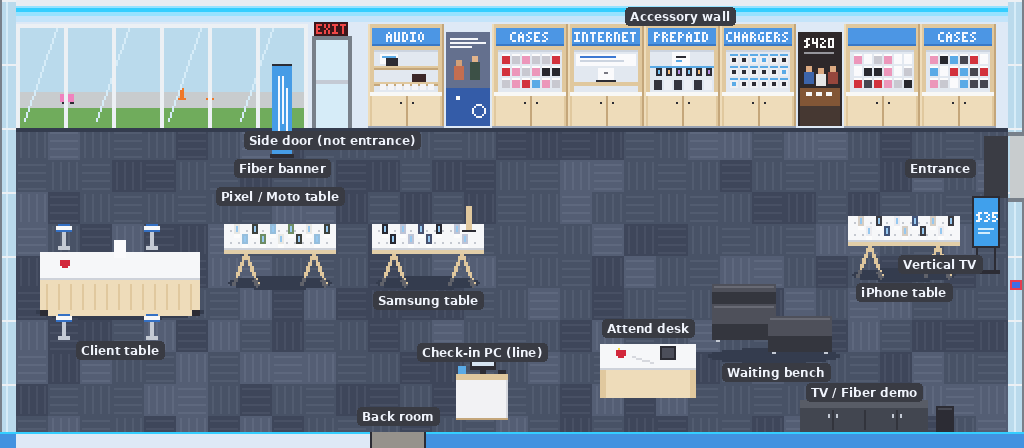
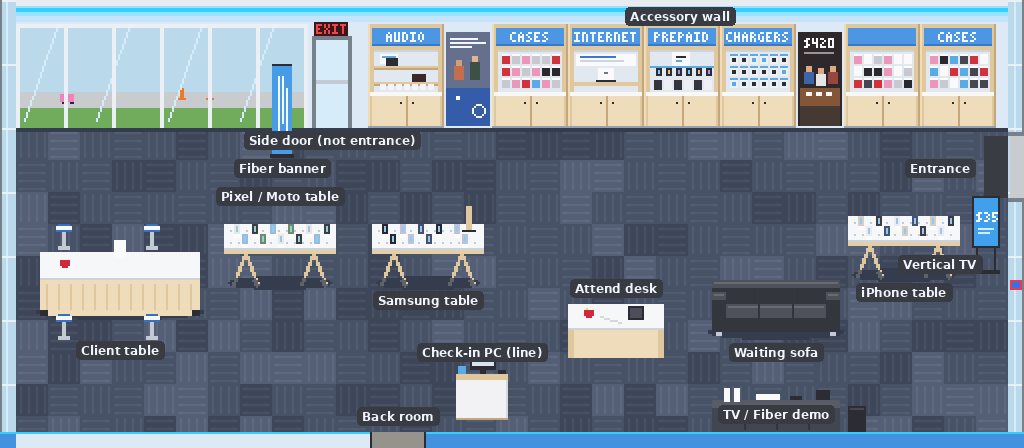
Store map: sofa, desk and TV demo placement
- The waiting area is a sofa, not ottomans: backrest drawn behind
  sitters, arms and cushions in front
- Attend desk moved up and left, closer to the check-in PC
- TV/Fiber demo credenza moved directly in front of the sofa

Claude-Session: https://claude.ai/code/session_015m4UU8edyU5WYJrZWLfwpV

Changed region(s): [[0.5312, 0.625, 0.9375, 0.9688]]

diff --git a/art/store_map/make_map.py b/art/store_map/make_map.py
@@ -41,7 +41,7 @@ CARPET, CARPET_LT, CARPET_DK = (72, 82, 102), (84, 94, 116), (62, 70, 90)
 FLOOR_SHADOW = (52, 60, 78)
 WHITE_TOP, TABLE_EDGE, PLY, HOLE = (246, 247, 249), (206, 210, 218), (226, 206, 168), (196, 200, 208)
 DARK, DARK_TIP = (44, 44, 52), (96, 98, 106)
-BENCH_TOP, BENCH, BENCH_HI = (78, 80, 90), (52, 54, 62), (104, 106, 116)
+SOFA_TOP, SOFA, SOFA_HI = (78, 80, 90), (52, 54, 62), (104, 106, 116)
 CRED_TOP, CRED, CRED_DK = (88, 92, 102), (66, 70, 80), (50, 52, 60)
 BLUE_WALL, HALL = (66, 146, 224), (150, 146, 140)
 STOOL_BLUE, CHROME = (52, 112, 196), (196, 202, 212)
@@ -331,20 +331,29 @@ def attend_desk(d, x, y):
     d.line([(x + 16, y + 6), (x + 26, y + 9)], fill=(214, 216, 222))  # charging cable
 
 
-def bench_back(d, x, y):
-    R(d, x, y - 10, 32, 4, BENCH_TOP)
-    R(d, x, y - 6, 32, 6, BENCH)
-    R(d, x + 1, y - 9, 30, 1, BENCH_HI)
+def sofa_back(d, x, y):
+    """Backrest, drawn before anyone sitting so they sit in front of it."""
+    R(d, x, y - 12, 64, 4, SOFA_TOP)
+    R(d, x + 1, y - 11, 62, 1, SOFA_HI)
+    R(d, x, y - 8, 64, 9, SOFA)
+    for sx in (21, 42):
+        R(d, x + sx, y - 8, 1, 9, CRED_DK)
 
 
-def bench(d, x, y):
-    floor_shadow(d, x - 2, y + 22, 66, 8)
-    for bx, by in ((x, y), (x + 28, y + 6)):
-        R(d, bx, by, 32, 10, BENCH_TOP)
-        R(d, bx + 1, by + 1, 30, 1, BENCH_HI)
-        R(d, bx, by + 10, 32, 8, BENCH)
-        R(d, bx + 2, by + 18, 2, 1, CHROME)
-        R(d, bx + 28, by + 18, 2, 1, CHROME)
+def sofa(d, x, y):
+    """Arms and seat cushions, drawn in front of anyone sitting."""
+    floor_shadow(d, x - 2, y + 10, 68, 8)
+    for ax in (x, x + 57):
+        R(d, ax, y - 6, 7, 4, SOFA_TOP)
+        R(d, ax + 1, y - 5, 5, 1, SOFA_HI)
+        R(d, ax, y - 2, 7, 16, SOFA)
+    R(d, x + 7, y, 50, 7, SOFA_TOP)
+    R(d, x + 8, y + 1, 48, 1, SOFA_HI)
+    for sx in (23, 40):
+        R(d, x + sx, y, 1, 7, CRED_DK)
+    R(d, x + 7, y + 7, 50, 7, SOFA)
+    for lx in (x + 2, x + 59):
+        R(d, lx, y + 14, 3, 2, CHROME)
 
 
 def credenza(d, x, y):
@@ -608,10 +617,10 @@ def furniture():
         (143, lambda d: demo_table(d, 186, 112, SAMSUNGS, sign=True)),
         (77, lambda d: fiber_banner(d, 136, 32)),
         (209, lambda d: pc_podium(d, 228, 187)),
-        (199, lambda d: attend_desk(d, 300, 172)),
-        (151, lambda d: bench_back(d, 356, 152)),
-        (174, lambda d: bench(d, 356, 152)),
-        (215, lambda d: credenza(d, 400, 200)),
+        (178, lambda d: attend_desk(d, 284, 152)),
+        (151, lambda d: sofa_back(d, 356, 152)),
+        (167, lambda d: sofa(d, 356, 152)),
+        (215, lambda d: credenza(d, 356, 200)),
         (139, lambda d: demo_table(d, 424, 108, IPHONES)),
         (136, lambda d: kiosk(d, 486, 98)),
     ]
@@ -668,22 +677,22 @@ def mock_people():
 
     add(crew("Madai"), 210, 180)                                   # running the check-in PC
     add(customer("senora"), 256, 181, needs("bill", 0.75))         # in line
-    add(customer("cap_blue"), 274, 179, needs("phone", 0.45))      # in line
-    add(customer("hoodie_green"), 364, 132, needs("internet", 0.2))  # waiting on the bench
+    add(customer("cap_blue"), 274, 180, needs("phone", 0.45))      # in line
+    add(customer("hoodie_green"), 364, 132, needs("internet", 0.2))  # waiting on the sofa
     add(crew("Jesnel"), 36, 104)                                   # attending at the client table
     add(customer("hoodie_purple"), 56, 104)
     add(crew("Nathalya"), 206, 90)                                 # Samsung table
     add(crew("Daniela"), 444, 86)                                  # iPhone table
     add(crew("Alex"), 370, 50)                                     # accessory wall
     add(customer("cap_green"), 392, 52, needs("accessory", 0.9))
-    add(crew("Matthew"), 300, 118)                                 # managing, allegedly
+    add(crew("Matthew"), 312, 104)                                 # managing, allegedly
     add(customer("cap_red"), 488, 62, needs("unsure"))             # just walked in
     return P
 
 
 LABELS = [  # (text, x, y) in 1x map coordinates, anchor = center
     ("Entrance", 470, 84), ("iPhone table", 452, 146), ("Vertical TV", 470, 132),
-    ("Waiting bench", 388, 186), ("TV / Fiber demo", 432, 196), ("Attend desk", 324, 164),
+    ("Waiting sofa", 388, 176), ("TV / Fiber demo", 388, 207), ("Attend desk", 308, 144),
     ("Check-in PC (line)", 241, 176), ("Back room", 199, 208),
     ("Samsung table", 214, 150), ("Pixel / Moto table", 140, 98),
     ("Client table", 60, 175), ("Fiber banner", 141, 84), ("Side door (not entrance)", 166, 70),
